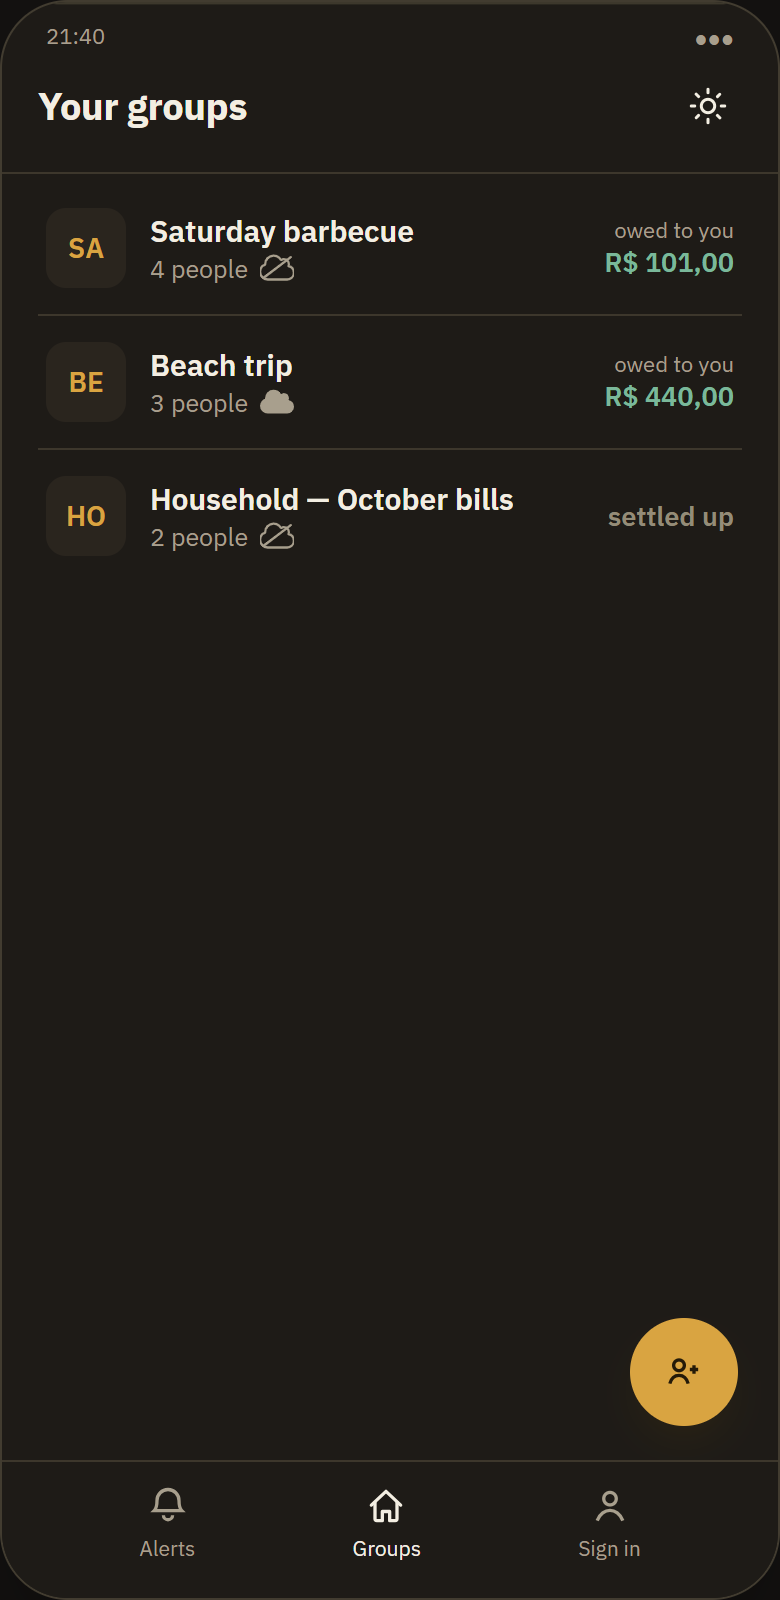
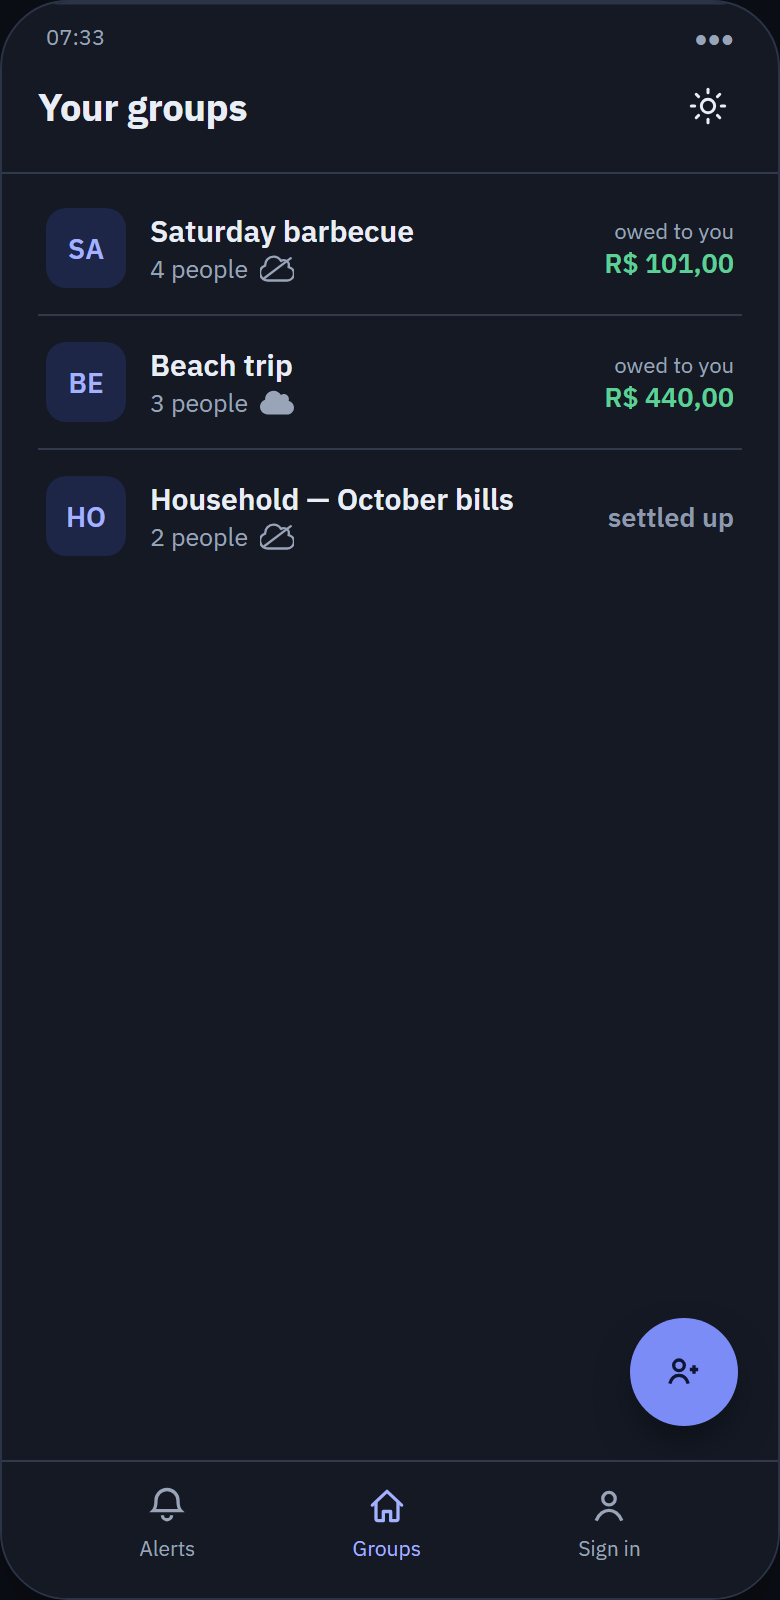
docs: update README and screenshots for Even
Renames the product to Even (pt-BR: Tô Quite), updates the module and
package names (Even.* projects, com.even.app), documents the new palette
and the system-following theme, and adds the build/test commands with
their current counts.

Screenshots regenerated from the prototype so they show the indigo/amber
palette instead of the old sepia one.

diff --git a/README.md b/README.md
@@ -1,8 +1,9 @@
-# Tally
+# Even
 
 Group expense-splitting app (Splitwise-style), built local-first around a real debt
 simplification algorithm (balance graph, minimizing the number of transactions needed to
-settle a group) instead of a naive who-owes-whom tally.
+settle a group) instead of a naive who-owes-whom ledger. Published in Brazilian Portuguese
+as **Tô Quite**.
 
 ## Screens
 
@@ -22,11 +23,16 @@ the native Android app.
 </tr>
 </table>
 
+Cool-slate neutrals with an indigo brand colour, plus an amber accent reserved for money
+changing hands (settle-up actions, settlement amounts, totals); debts show in coral and
+credits in green. The theme follows the system setting by default, and the toggle in the top
+bar overrides it.
+
 ## Download the app
 
 Debug APK, ready to install (Android 8+), for anyone who wants to try it without building:
 
-**[⬇ Download tally-debug.apk](../../releases/latest/download/tally-debug.apk)**
+**[⬇ Download even-debug.apk](../../releases/latest/download/even-debug.apk)**
 
 It's a debug build, not published on the Play Store — Android will warn about an unknown
 source on install; just confirm. It ships with a sample group (local, not synced) so you can
@@ -43,12 +49,23 @@ explore the screens without creating anything from scratch.
 - **Authentication** — Google Sign-In (OAuth 2.0/OIDC), no self-managed password system.
 - **Real-time notifications** — via a SignalR hub, no third-party push (FCM/APNs).
 - **Static prototype** (`prototype/`) — clickable HTML/CSS/JS, no backend, used as a visual
-  reference before the native implementation.
+  reference before the native implementation. Its stylesheet is also the source of truth for
+  the colour palette; `app/tools/verify_palette.py` checks the Compose theme against it.
 
 ## Structure
 
 ```
-backend/    .NET solution (Domain / Application / Infrastructure / Api + tests)
-app/        native Android app (Kotlin), app/domain/data modules
+backend/    .NET solution (Even.Domain / Even.Application / Even.Infrastructure / Even.Api + tests)
+app/        native Android app (Kotlin, com.even.app), app/domain/data modules
 prototype/  clickable static prototype (HTML/CSS/JS)
 ```
+
+## Building and testing
+
+```
+cd backend && dotnet build && dotnet test     # 85 tests
+cd app && ./gradlew assembleDebug test        # 166 unit tests
+```
+
+The Android build needs an `app/local.properties` with `sdk.dir` and the
+`EVEN_GOOGLE_WEB_CLIENT_ID` / `EVEN_API_BASE_URL` placeholders.
